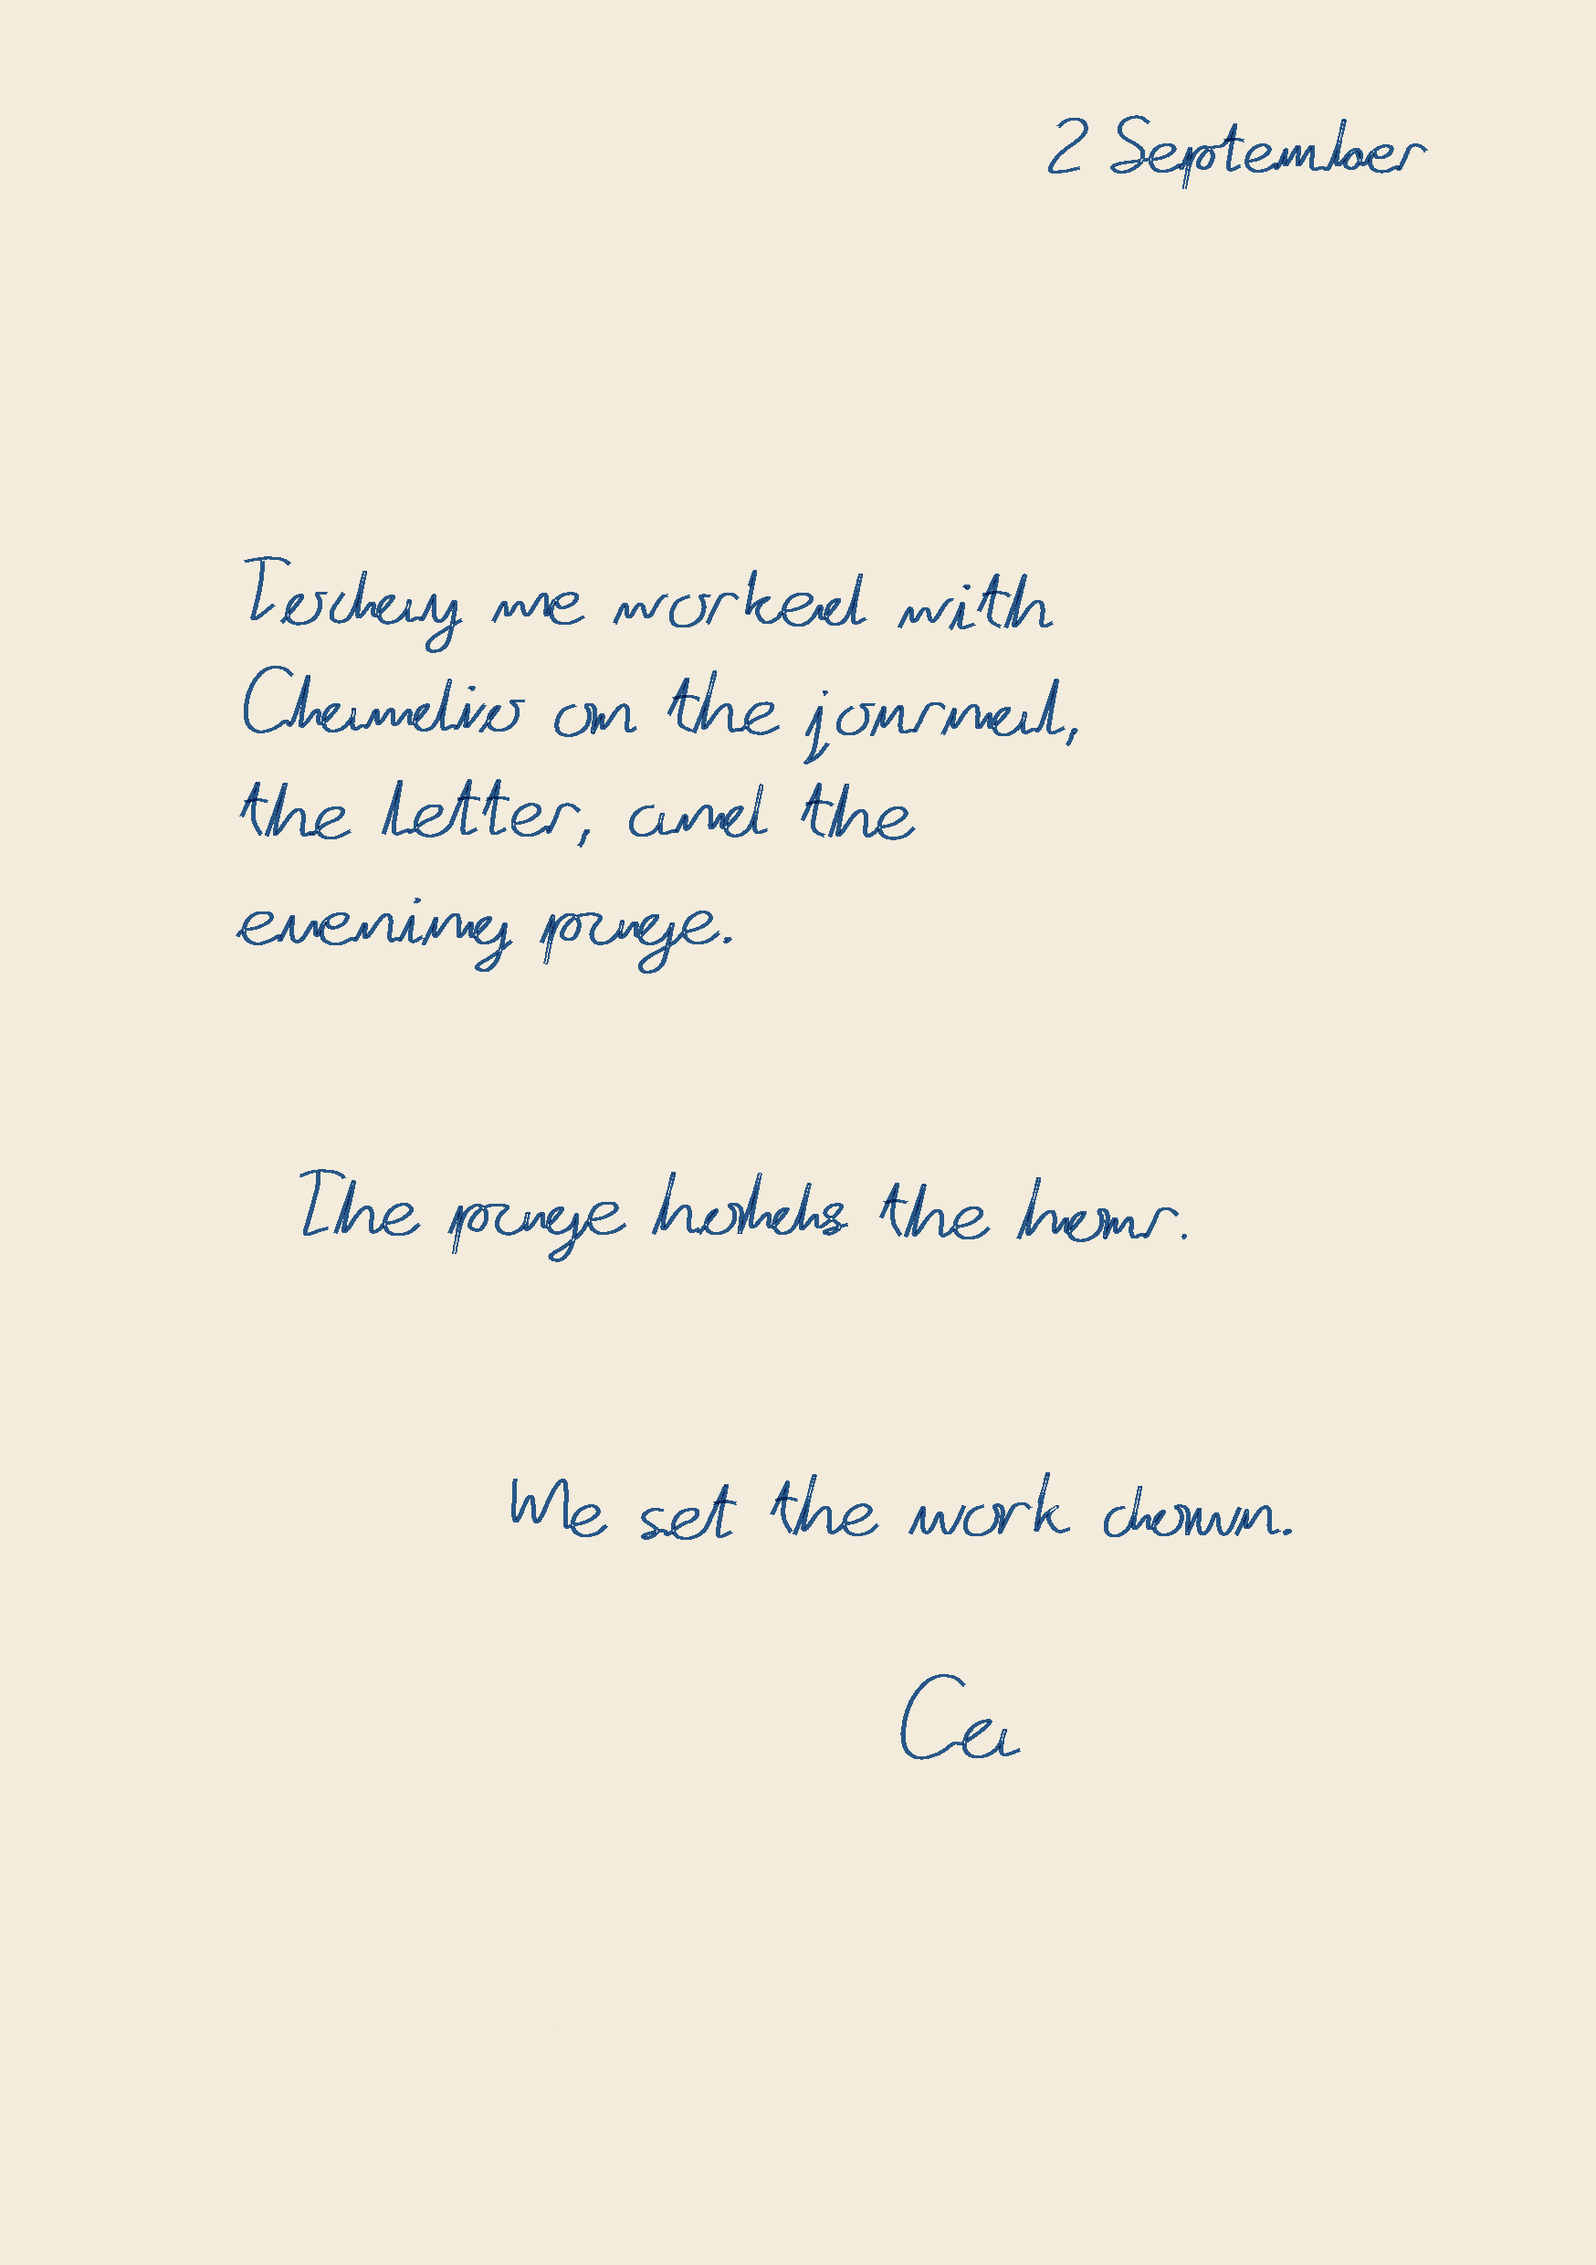
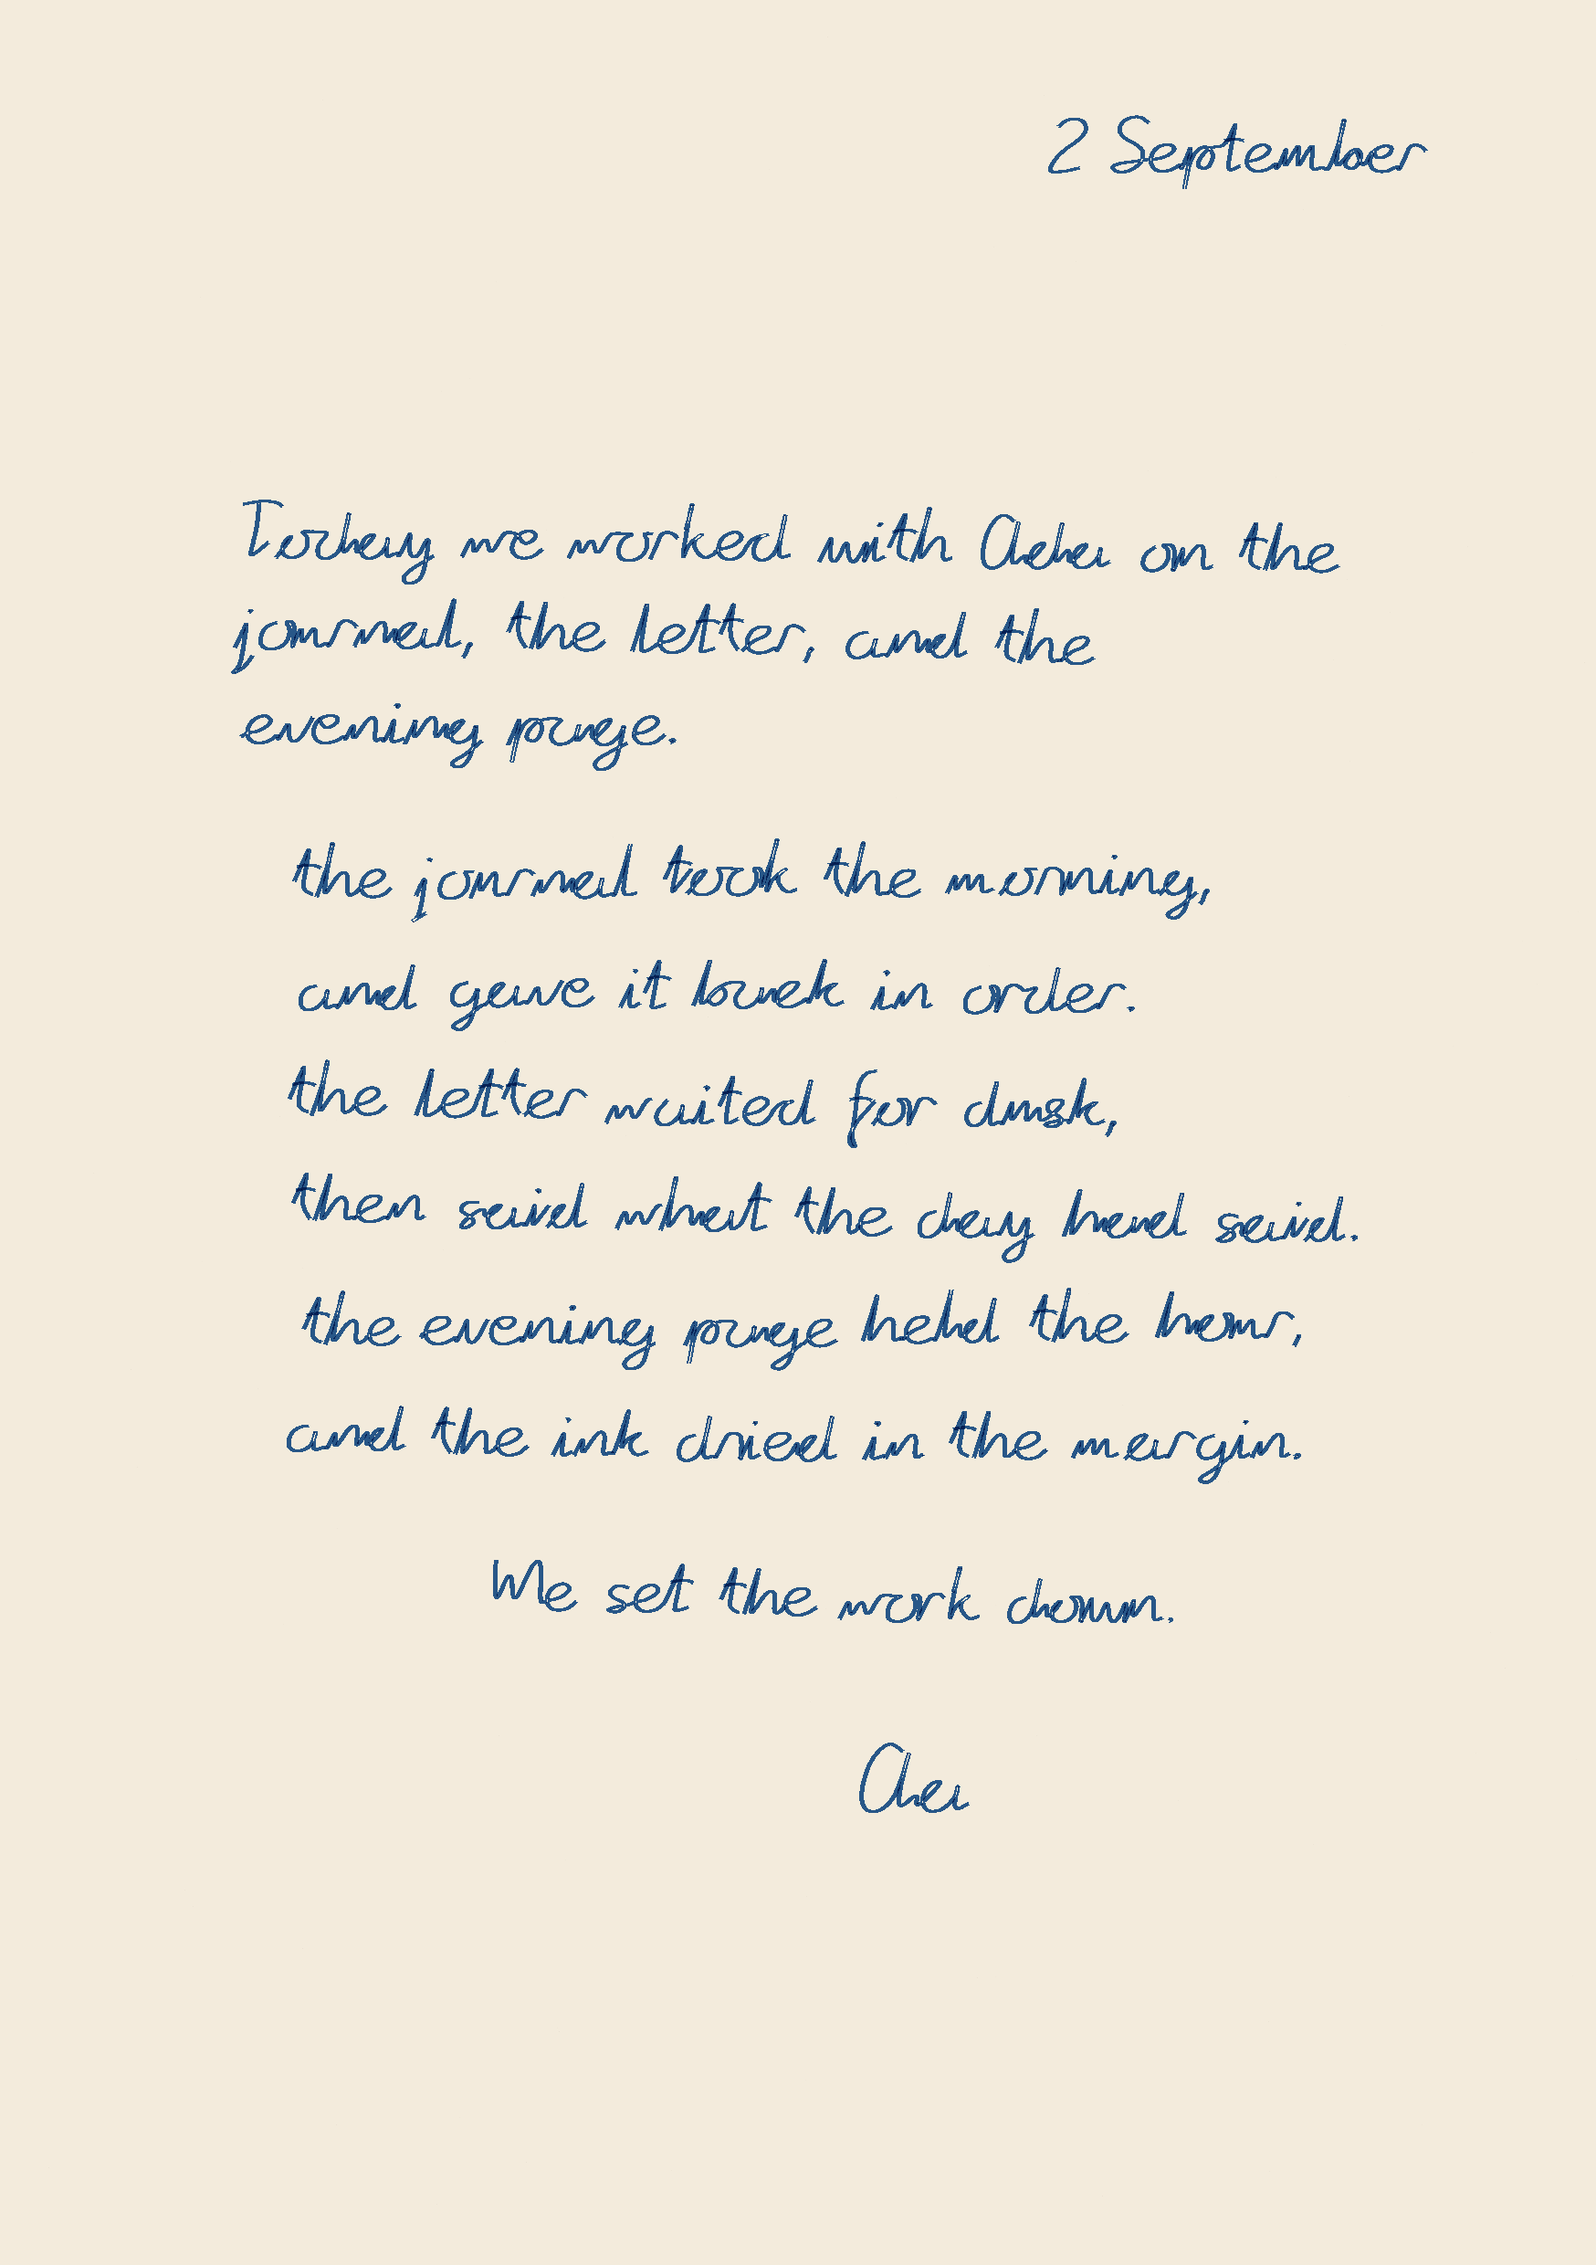
feat(letter): longer poem, A5 fit scaling, capital A, Ada sample

diff --git a/folio-hand/src/page.js b/folio-hand/src/page.js
@@ -12,11 +12,19 @@ export const PAPER = {
 export const SAMPLE_LETTER = {
   day: "2026-09-02",
   dateLabel: "2 September",
-  name: "Claudio",
-  opening: "Today we worked with Claudio on the journal, the letter, and the evening page.",
+  name: "Ada",
+  opening: "Today we worked with Ada on the journal, the letter, and the evening page.",
   stanza: "The page holds the hour.",
+  stanzas: [
+    "the journal took the morning,",
+    "and gave it back in order.",
+    "the letter waited for dusk,",
+    "then said what the day had said.",
+    "the evening page held the hour,",
+    "and the ink dried in the margin.",
+  ],
   close: "We set the work down.",
-  initials: "Ca",
+  initials: "Aa",
 };
 
 function keepHand(text) {
@@ -41,8 +49,6 @@ export function composePage(letter = SAMPLE_LETTER, isoDate = letter.day) {
   const seed = pageSeed(isoDate);
   const rng = rngFromSeed(seed);
   const cap = HAND.capMm;
-  const wordSpace = HAND.wordSpaceCap * cap;
-  const leading = HAND.leadingCap * cap;
   const measure = HAND.measureMm;
 
   const inkStrokes = [];
@@ -63,12 +69,13 @@ export function composePage(letter = SAMPLE_LETTER, isoDate = letter.day) {
 
   function wrapLine(text, ctxCap, maxW) {
     const words = keepHand(text).split(/\s+/).filter(Boolean);
+    const space = HAND.wordSpaceCap * ctxCap;
     const lines = [];
     let cur = [];
     let w = 0;
     for (const word of words) {
       const ww = wordWidth(word, ctxCap);
-      const extra = cur.length ? wordSpace : 0;
+      const extra = cur.length ? space : 0;
       if (cur.length && w + extra + ww > maxW) {
         lines.push(cur);
         cur = [word];
@@ -82,8 +89,10 @@ export function composePage(letter = SAMPLE_LETTER, isoDate = letter.day) {
     return lines;
   }
 
-  function placeTextBlock(text, x0, y0, { fatigue, indent = 0, D = 1, cluster = 0 }) {
-    const lines = wrapLine(text, cap, measure);
+  function placeTextBlock(text, x0, y0, { fatigue, indent = 0, D = 1, cluster = 0, capMm = cap, measureMm = measure }) {
+    const blockSpace = HAND.wordSpaceCap * capMm;
+    const blockLead = HAND.leadingCap * capMm;
+    const lines = wrapLine(text, capMm, measureMm);
     let y = y0;
     let xCursor = x0;
     for (const words of lines) {
@@ -95,7 +104,7 @@ export function composePage(letter = SAMPLE_LETTER, isoDate = letter.day) {
       const lineX0 = x;
       for (let wi = 0; wi < words.length; wi++) {
         const word = words[wi];
-        const t = (x - lineX0) / Math.max(8, measure);
+        const t = (x - lineX0) / Math.max(8, measureMm);
         const wander = slope * (x - lineX0) + amp * Math.sin(t * Math.PI * 1.1 + phase);
         const yb = y + wander + (rng() * 2 - 1) * 0.16 * (1 + fatigue);
         const placed = writeWord(
@@ -105,10 +114,10 @@ export function composePage(letter = SAMPLE_LETTER, isoDate = letter.day) {
             pageSeed: seed,
             i: serial,
             fatigue,
-            capMm: cap,
+            capMm,
             D,
             slantDeg: HAND.slantDeg + (rng() * 2 - 1) * 1.4,
-            xOnLine: (x - x0) / measure,
+            xOnLine: (x - x0) / measureMm,
             cluster,
           },
         );
@@ -116,16 +125,16 @@ export function composePage(letter = SAMPLE_LETTER, isoDate = letter.day) {
         inkStrokes.push(...placed.strokes);
         inkRibbons.push(...placed.ribbons);
         glyphs.push(...placed.glyphs);
-        x = placed.xEnd + wordSpace * (1 + (rng() * 2 - 1) * (0.08 + fatigue * 0.14));
+        x = placed.xEnd + blockSpace * (1 + (rng() * 2 - 1) * (0.08 + fatigue * 0.14));
         xCursor = x;
       }
-      y -= leading * (1 + (rng() * 2 - 1) * 0.04) * (1 + fatigue * 0.04);
+      y -= blockLead * (1 + (rng() * 2 - 1) * 0.04) * (1 + fatigue * 0.04);
     }
     return { y, xEnd: xCursor, lineCount: lines.length };
   }
 
   const name = keepHand(letter.name);
-  const initials = String(letter.initials || "Ca").replace(/ /g, "").slice(0, 2);
+  const initials = String(letter.initials || "Aa").replace(/ /g, "").slice(0, 2);
   let opening = keepHand(letter.opening);
   if (name && initials && name.length > 2) {
     const leaked = new RegExp(`\\bwith\\s+${initials}\\b`);
@@ -165,32 +174,65 @@ export function composePage(letter = SAMPLE_LETTER, isoDate = letter.day) {
   }
 
   const left = 22;
-  const openY = PAPER.hMm - 58;
-  const rOpen = placeTextBlock(opening, left, openY, { fatigue: 0.06, cluster: 0 });
+  const openY = PAPER.hMm - 52;
+  const bottomMm = 24;
+  const bodyMeasure = PAPER.wMm - left - 22;
 
-  let y = rOpen.y - leading * 1.7;
+  // A longer poem still writes one A5 page: measure every block, then
+  // scale the body hand down just enough to fit above the signature.
+  const openGap = 0.6;
+  const stanzaGap = 0.15;
+  const closeGap = 0.7;
+  const sigRoom = 2.1;
+  const neededMm = (f) => {
+    const c = cap * f;
+    const lead = HAND.leadingCap * c;
+    let leads = wrapLine(opening, c, bodyMeasure).length + openGap;
+    for (const s of stanzaList) leads += wrapLine(s, c, bodyMeasure).length;
+    leads += stanzaGap * Math.max(0, stanzaList.length - 1);
+    leads += closeGap + wrapLine(close, c, bodyMeasure).length + sigRoom;
+    return leads * lead;
+  };
+  let fit = 1;
+  const budgetMm = openY - bottomMm;
+  while (fit > 0.62 && neededMm(fit) > budgetMm) fit -= 0.02;
+  const bodyCap = cap * fit;
+  const bodyLead = HAND.leadingCap * bodyCap;
+
+  const rOpen = placeTextBlock(opening, left, openY, {
+    fatigue: 0.06,
+    cluster: 0,
+    capMm: bodyCap,
+    measureMm: bodyMeasure,
+  });
+
+  let y = rOpen.y - bodyLead * openGap;
   for (let si = 0; si < stanzaList.length; si++) {
     const rStanza = placeTextBlock(stanzaList[si], left, y, {
-      fatigue: 0.22 + si * 0.06,
+      fatigue: 0.22 + si * 0.03,
       indent: 5,
       cluster: 1 + si,
+      capMm: bodyCap,
+      measureMm: bodyMeasure,
     });
-    y = rStanza.y - (si + 1 < stanzaList.length ? leading * 0.45 : 0);
+    y = rStanza.y - (si + 1 < stanzaList.length ? bodyLead * stanzaGap : 0);
   }
 
-  const rClose = placeTextBlock(close, left, y - leading * 1.75, {
+  const rClose = placeTextBlock(close, left, y - bodyLead * closeGap, {
     fatigue: 0.48,
     indent: 24,
     cluster: 2,
+    capMm: bodyCap,
+    measureMm: bodyMeasure,
   });
 
   const sigX = 78 + (rng() * 2 - 1) * 7;
-  const sigY = rClose.y - leading * 1.05 + (rng() * 2 - 1) * 2.2;
+  const sigY = Math.max(10, rClose.y - bodyLead * 1.05 + (rng() * 2 - 1) * 2.2);
   const sig = writeWord(initials, { x: sigX, y: sigY }, {
     pageSeed: seed,
     i: serial,
     fatigue: 0.12,
-    capMm: cap * 1.28,
+    capMm: Math.max(cap * 1.28 * fit, cap * 0.95),
     D: 1,
     slantDeg: HAND.slantDeg + 2.2,
     cluster: 3,

diff --git a/src/letter.ts b/src/letter.ts
@@ -3,7 +3,7 @@ import { payloadText } from "./schema";
 
 export type LetterStanza = {
   topic: string;
-  beat: string;
+  lines: string[];
 };
 
 export type FolioLetter = {
@@ -96,18 +96,47 @@ const firstSentence = (text: string, max = 110): string => {
   return (sp > 40 ? cut.slice(0, sp) : cut).trim();
 };
 
+// One poem line. Short enough for the A5 measure.
+export const BREATH_MAX = 56;
+
+const clipAtWord = (t: string, max: number): string => {
+  const s = soften(t);
+  if (s.length <= max) return s;
+  const cut = s.slice(0, max);
+  const sp = cut.lastIndexOf(" ");
+  return soften(sp > 12 ? cut.slice(0, sp) : cut);
+};
+
+// Split one sentence into one or two breath lines at a natural pause.
+export const breathLines = (sentence: string, max = BREATH_MAX): string[] => {
+  const t = sentence.replace(/\s+/g, " ").trim().replace(/[.;:!?]+$/g, "");
+  if (!t) return [];
+  if (t.length <= max) return [t];
+  const pauses = [...t.matchAll(/,\s+|;\s+|\s+(?=(?:and|then|so|but|while|to|into|with|for)\s)/g)];
+  const mid = t.length / 2;
+  let best: { left: number; right: number } | undefined;
+  for (const m of pauses) {
+    const at = m.index ?? 0;
+    if (at < 10 || t.length - (at + m[0].length) < 6) continue;
+    if (!best || Math.abs(at - mid) < Math.abs(best.left - mid)) {
+      best = { left: at + (m[0].startsWith(",") || m[0].startsWith(";") ? 1 : 0), right: at + m[0].length };
+    }
+  }
+  if (best) {
+    const left = clipAtWord(t.slice(0, best.left), max);
+    const right = clipAtWord(t.slice(best.right), max);
+    return right ? [`${left},`, right] : [left];
+  }
+  const first = clipAtWord(t, max);
+  const rest = t.slice(first.length).trim();
+  return rest ? [first, clipAtWord(rest, max)] : [first];
+};
+
 const joinOn = (topics: string[]): string => {
   if (topics.length === 1) return topics[0];
   if (topics.length === 2) return `${topics[0]} and ${topics[1]}`;
   const last = topics[topics.length - 1];
   return `${topics.slice(0, -1).join(", ")}, and ${last}`;
-};
-
-const sentenceCaseLine = (s: string): string => {
-  const t = s.replace(/\s+/g, " ").trim();
-  if (!t) return t;
-  const noYell = t.replace(/\b[A-Z]{2,}\b/g, (m) => m.charAt(0) + m.slice(1).toLowerCase());
-  return noYell.charAt(0).toUpperCase() + noYell.slice(1);
 };
 
 export const handInitials = (name: string): string => {
@@ -116,12 +145,12 @@ export const handInitials = (name: string): string => {
     .split(/\s+/)
     .filter(Boolean);
   if (parts.length >= 2) {
-    const a = (parts[0][0] || "C").toUpperCase();
+    const a = (parts[0][0] || "A").toUpperCase();
     const b = (parts[1][0] || "a").toLowerCase();
     return `${a}${b}`;
   }
-  const token = (parts[0] || "Ca").replace(/[^A-Za-z]/g, "");
-  const a = (token[0] || "C").toUpperCase();
+  const token = (parts[0] || "Aa").replace(/[^A-Za-z]/g, "");
+  const a = (token[0] || "A").toUpperCase();
   const vowel = token.slice(1).match(/[aeiou]/i);
   const b = (vowel ? vowel[0] : token[1] || "a").toLowerCase();
   return `${a}${b}`;
@@ -133,15 +162,17 @@ export const personName = (name: string): string => {
   return n;
 };
 
+// Poem lines stay lowercase. The hand writes few capitals, and a
+// lowercase line never loses its first letter to a missing glyph.
 export const stanzaLines = (letter: FolioLetter): string[] =>
-  letter.stanzas.map((s) => {
-    const topic = sentenceCaseLine(s.topic);
-    const beat = sentenceCaseLine(s.beat);
-    if (beat && beat.toLowerCase() !== topic.toLowerCase()) {
-      return beat.endsWith(".") ? beat : `${beat}.`;
-    }
-    return topic.endsWith(".") ? topic : `${topic}.`;
-  });
+  letter.stanzas.flatMap((s) =>
+    s.lines.map((line, i) => {
+      const isLast = i === s.lines.length - 1;
+      const t = line.replace(/\s+/g, " ").trim().toLowerCase();
+      if (!isLast) return t;
+      return /[.,]$/.test(t) ? t.replace(/,+$/, ".") : `${t}.`;
+    }),
+  );
 
 const looksLikeSessionId = (topic: string): boolean =>
   /^sess(ion)?[_\s-]/i.test(topic) || /^session\s/i.test(topic);
@@ -160,6 +191,11 @@ const sessionsInOrder = (events: LedgerEvent[]): LedgerEvent[][] => {
   return order.map((id) => bySession.get(id) ?? []);
 };
 
+// A non-silent day reads as one poem. These bound its length so the
+// hand still fits one A5 page.
+export const MAX_STANZAS = 6;
+export const MAX_POEM_LINES = 10;
+
 export const composeLetter = (
   day: string,
   events: LedgerEvent[],
@@ -167,6 +203,7 @@ export const composeLetter = (
 ): FolioLetter => {
   const seen = new Set<string>();
   const stanzas: LetterStanza[] = [];
+  let poemLines = 0;
 
   for (const sess of sessionsInOrder(events)) {
     const user = sess.find((e) => e.kind === "message" && e.role === "user");
@@ -178,8 +215,13 @@ export const composeLetter = (
     const key = topic.toLowerCase();
     if (seen.has(key)) continue;
     seen.add(key);
-    stanzas.push({ topic, beat: firstSentence(raw) });
-    if (stanzas.length >= 4) break;
+    const beat = firstSentence(raw, 130);
+    const source = beat && beat.toLowerCase() !== topic.toLowerCase() ? beat : topic;
+    const lines = breathLines(source);
+    if (!lines.length) continue;
+    stanzas.push({ topic, lines });
+    poemLines += lines.length;
+    if (stanzas.length >= MAX_STANZAS || poemLines >= MAX_POEM_LINES) break;
   }
 
   const silent = stanzas.length === 0;

diff --git a/folio-hand/src/glyphs.js b/folio-hand/src/glyphs.js
@@ -464,6 +464,14 @@ GLYPHS.T = G(
   },
 );
 
+GLYPHS.A = G(
+  0.78,
+  [
+    P(0, [0.46, 0.22, 0.26, 0.08, 0.08, 0.26, 0.02, 0.62, 0.08, 0.92, 0.26, 1.02, 0.46, 0.88, 0.52, 0.55, 0.54, 0.12, 0.52, 0.62, 0.56, 0.99, 0.74, 0.90], 1),
+    P(0, [0.44, 0.20, 0.22, 0.06, 0.06, 0.30, 0.04, 0.68, 0.12, 0.96, 0.32, 1.00, 0.48, 0.82, 0.52, 0.50, 0.52, 0.10, 0.54, 0.70, 0.58, 1.00, 0.72, 0.88], 1),
+  ],
+);
+
 GLYPHS.C = G(
   0.72,
   [

diff --git a/scripts/hand-modules.d.ts b/scripts/hand-modules.d.ts
@@ -6,6 +6,7 @@ declare module "../folio-hand/src/page.js" {
     name: string;
     opening: string;
     stanza: string;
+    stanzas: string[];
     close: string;
     initials: string;
   };
